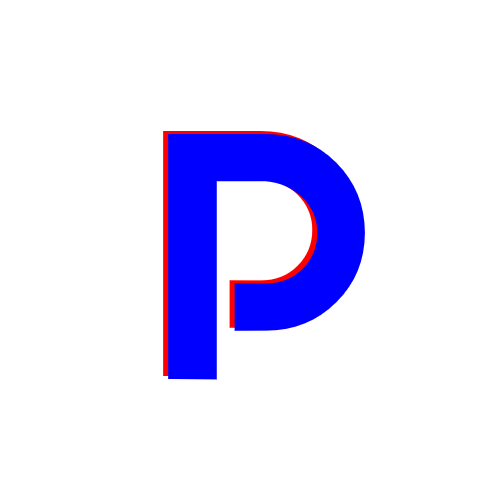
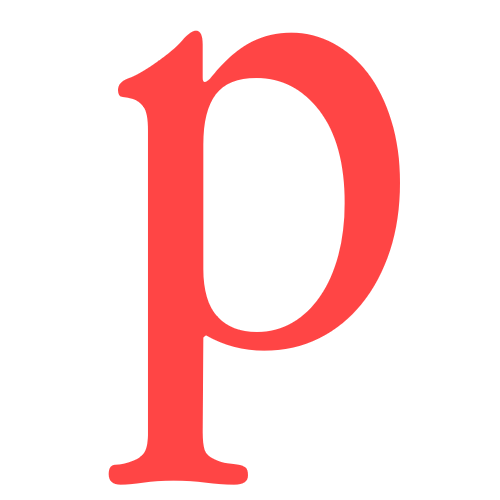
redesign

Changed region(s): [[0.21, 0.06, 0.81, 0.99]]

diff --git a/index.html b/index.html
@@ -4,13 +4,14 @@
 <head>
  <title>PlayPlaza</title>
  <link href="https://allfont.net/allfont.css?fonts=motter-tektura-cyrilic" rel="stylesheet" type="text/css" />
- <link rel="p.png" href="content/p.png">
+ <link rel="icon" href="content/p.png" type="image/png" />
+ <link rel="stylesheet" href="https://stackpath.bootstrapcdn.com/bootstrap/4.1.3/css/bootstrap.min.css" integrity="sha384-MCw98/SFnGE8fJT3GXwEOngsV7Zt27NXFoaoApmYm81iuXoPkFOJwJ8ERdknLPMO" crossorigin="anonymous">
+ <script src="https://code.jquery.com/jquery-3.3.1.slim.min.js" integrity="sha384-q8i/X+965DzO0rT7abK41JStQIAqVgRVzpbzo5smXKp4YfRvH+8abtTE1Pi6jizo" crossorigin="anonymous"></script>
+ <script src="https://cdnjs.cloudflare.com/ajax/libs/popper.js/1.14.3/umd/popper.min.js" integrity="sha384-ZMP7rVo3mIykV+2+9J3UJ46jBk0WLaUAdn689aCwoqbBJiSnjAK/l8WvCWPIPm49" crossorigin="anonymous"></script>
+ <script src="https://stackpath.bootstrapcdn.com/bootstrap/4.1.3/js/bootstrap.min.js" integrity="sha384-ChfqqxuZUCnJSK3+MXmPNIyE6ZbWh2IMqE241rYiqJxyMiZ6OW/JmZQ5stwEULTy" crossorigin="anonymous"></script>
  <link rel="stylesheet" href="styles/style.css">
+
 </head>
-<h1><span class="playplaza-header">PlayPlaza</span></h1>
-<hr>
-
-
-</hr>
+<header><h1>PlayPlaza</h1></header>
 
 </html>

diff --git a/styles/style.css b/styles/style.css
@@ -1,22 +1,41 @@
-h1 {
-    color: #ff5050;
-    text-align:center;
+* {
+
+    Margin: 0;
+    padding: 0;
+    box-sizing: border-box;
+
+
+}
+
+header {
+
+background-color: white;
+padding: 20px;
+
+}
+
+header > h1 {
+
+    color: rgb(255, 69, 69);
+    text-align: center;
+    font-family: 'EB Garamond', serif;
+    font-style: italic;
 }
 
 body {
 
-    background: rgb(255,80,80);
-background: -moz-linear-gradient(90deg, rgba(255,80,80,1) 8%, rgba(14,19,240,1) 50%, rgba(246,69,252,1) 100%);
-background: -webkit-linear-gradient(90deg, rgba(255,80,80,1) 8%, rgba(14,19,240,1) 50%, rgba(246,69,252,1) 100%);
-background: linear-gradient(90deg, rgba(255,80,80,1) 8%, rgba(14,19,240,1) 50%, rgba(246,69,252,1) 100%);
-filter: progid:DXImageTransform.Microsoft.gradient(startColorstr="#ff5050",endColorstr="#f645fc",GradientType=1);
+  background-color: #010536
 
 }
 
-.playplaza-header {
-    color:#ff5050;
+.navigate {
+
+    border: 5px outset rgb(255, 69, 69);
+    background-color: #010536;
     text-align: center;
-    font-family: 'Motter Tektura Cyrilic';
-    text-shadow: 4px 4px 4px rgb(196, 65, 65);
+    width: 750px;
+    height: 400px;
+    padding: 30px;
+    margin: 15px auto;
     
 }

diff --git a/chat.html b/chat.html
@@ -7,7 +7,7 @@
  <link rel="p.png" href="content/p.png">
  <link rel="stylesheet" href="styles/style.css">
 </head>
-<h1><span class="playplaza-header">Chat</span></h1>
+<<h1><span class="playplaza-header">Chat</span></h1>>
 <hr>
 
 
